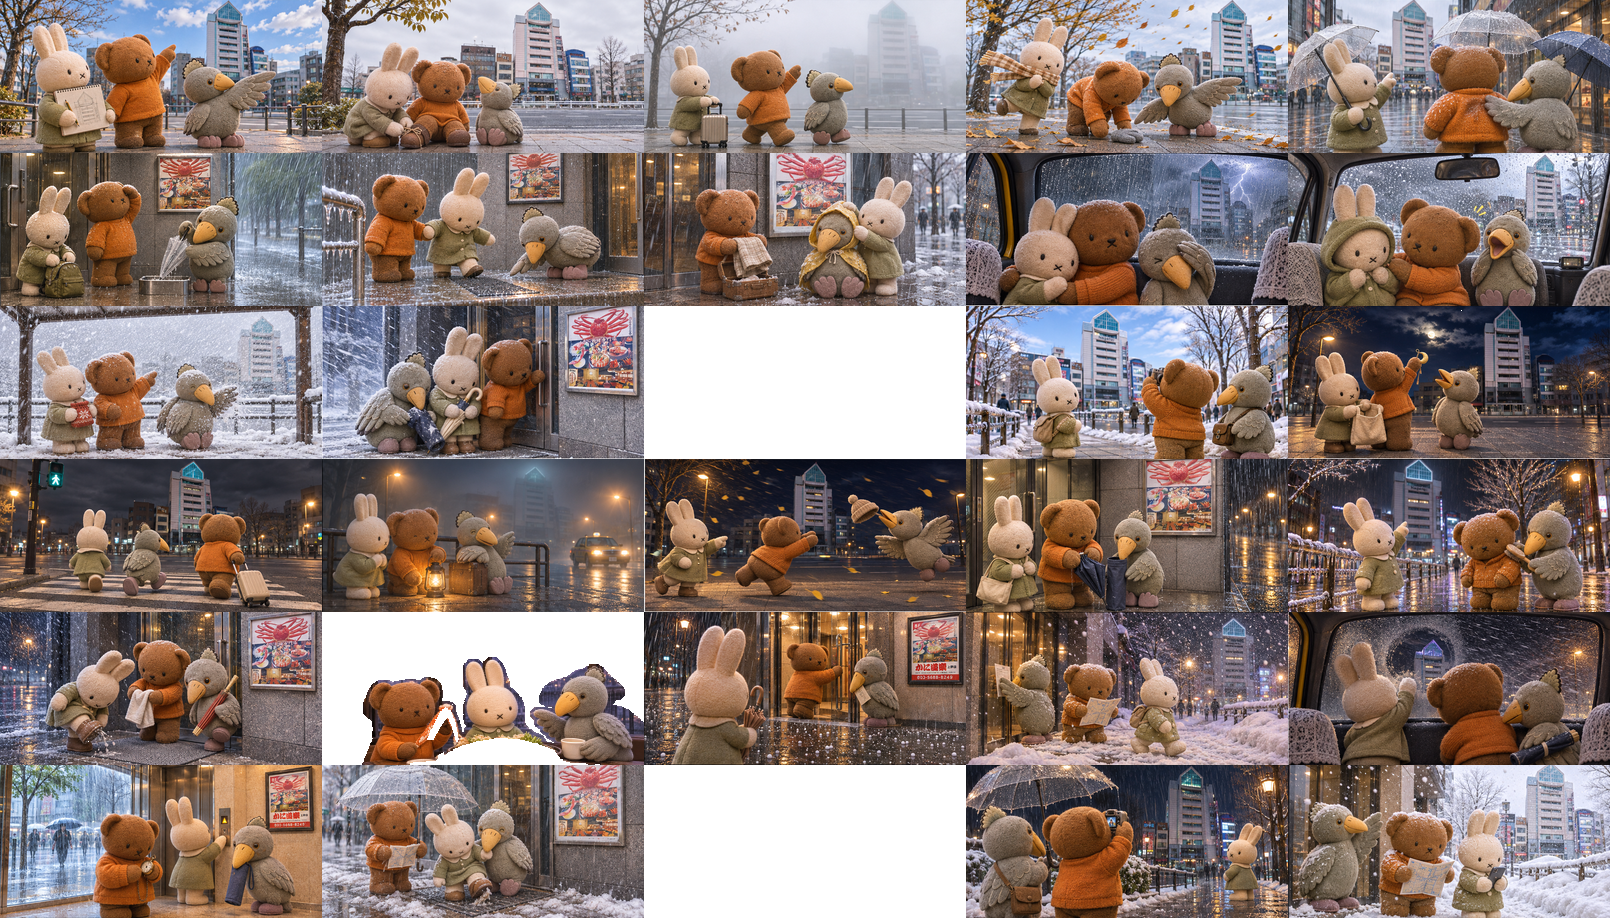
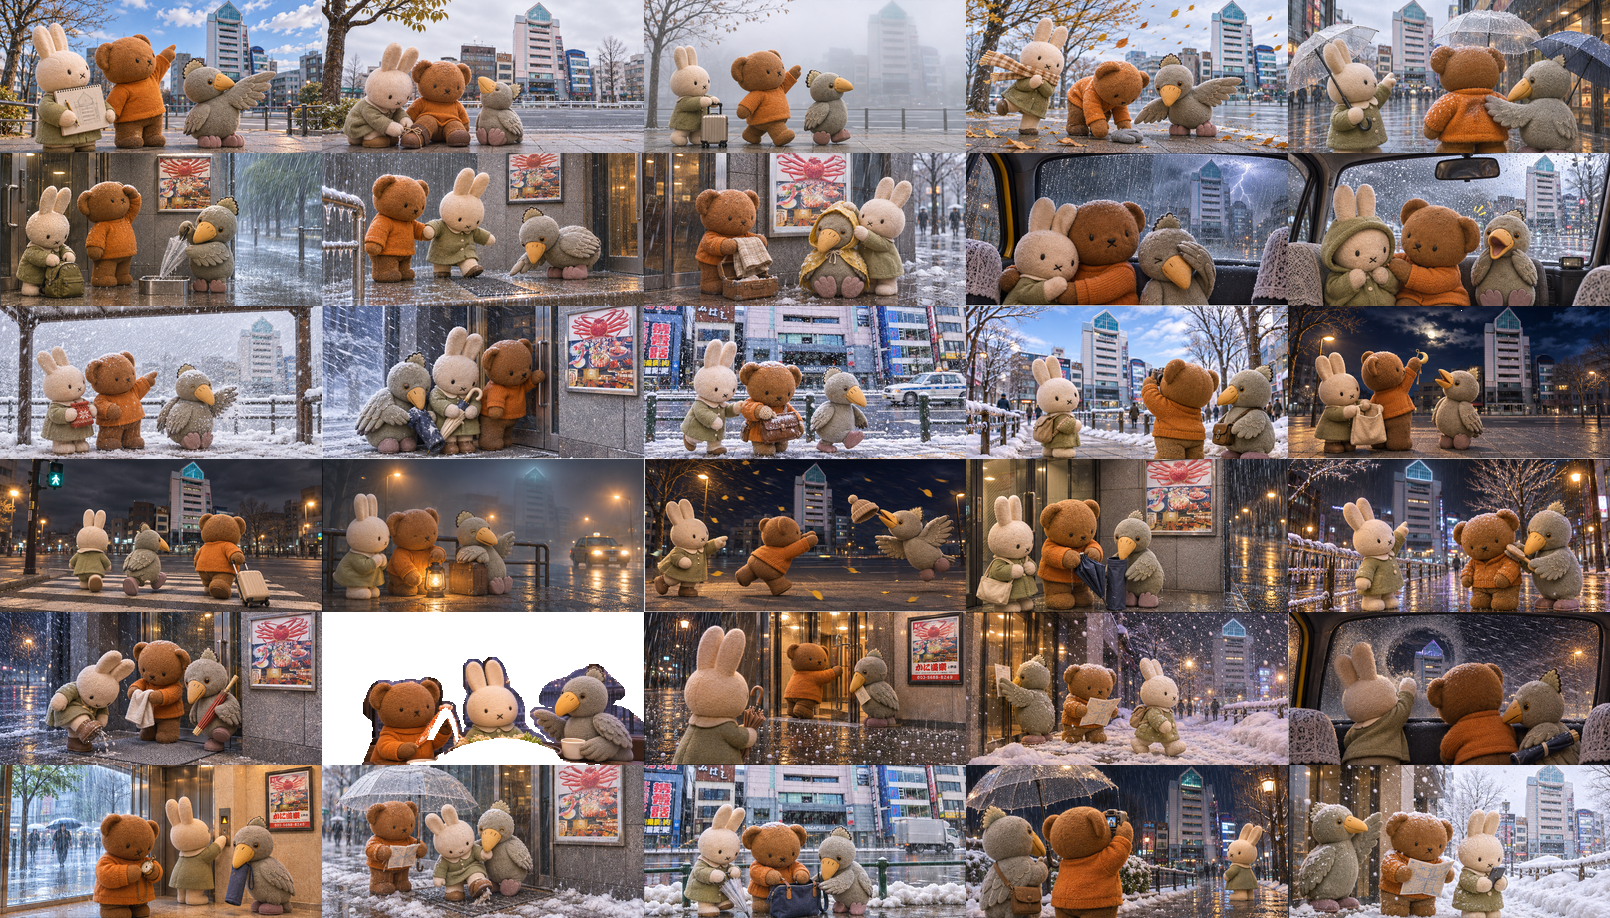
Publish 2693 verified travel weather illustrations

Changed region(s): [[0.3727, 0.8235, 0.6211, 1.0], [0.3727, 0.3355, 0.6211, 0.5185]]

diff --git a/trip-scenery.js b/trip-scenery.js
@@ -131,13 +131,13 @@ const TripScenery = (() => {
     "moere":{"rev":"a93c0904ed41","tiles":[1,4,7,14,17]},
     "moere-b":{"rev":"e53cc7e00f9a","tiles":[0,1,2,3,4,5,6,7,8,9,10,11,12,13,14,15,16,17,18,19,20,21,22,24,25,26,27,28]},
     "narita":{"rev":"8975a1809016","tiles":[11,12,15]},
-    "narita-b":{"rev":"d17bd1fce216","tiles":[0,2,3,4,5,6,7,8,9,10,12,18,20,23,24,25,26,27,28]},
+    "narita-b":{"rev":"c67e4441354a","tiles":[0,2,3,4,5,6,7,8,9,10,12,18,20,22,23,24,25,26,27,28]},
     "obihiro":{"rev":"1c28bd332a3d","tiles":[7,13,18]},
     "obihiro-b":{"rev":"3685c6c61876","tiles":[0,7,9,11,14,22,26,27,28]},
     "otaru":{"rev":"3791dd540955","tiles":[9]},
-    "otaru-b":{"rev":"e784c17349ad","tiles":[2,6]},
+    "otaru-b":{"rev":"62e29b33c83e","tiles":[2,6,8,9,12,14,15,18,20,21,28]},
     "roppongi":{"rev":"ee08e606e29f","tiles":[12]},
-    "roppongi-b":{"rev":"75a7100560a8","tiles":[3,6,7,8,10,11,12,13,14,15,20,21,22,23,26,29]},
+    "roppongi-b":{"rev":"4a636aeee583","tiles":[1,2,3,4,5,6,7,8,10,11,12,13,14,15,20,21,22,23,26,29]},
     "rusutsu":{"rev":"15835914c6d3","tiles":[7,11,13,16,18]},
     "rusutsu-b":{"rev":"90f44fbb19ad","tiles":[4,6,8,19,22,25,27]},
     "sapporo":{"rev":"e925743f436f","tiles":[9]},
@@ -158,7 +158,7 @@ const TripScenery = (() => {
     "spot-1d625ae4f":{"rev":"d953b4ddb572","tiles":[13]},
     "spot-1d625ae4f-b":{"rev":"3e4f23ac0943","tiles":[0,1,2,3,4,5,6,7,8,9,10,11,12,13,17,18,19,21,22,23,24,25,26,27,28,29]},
     "spot-1f13a90b8":{"rev":"7c6cfdd1cf96","tiles":[0,3,5,7,9,10,13,14,15,16,18,19]},
-    "spot-1f13a90b8-b":{"rev":"f4325c85f401","tiles":[0,1,2,3,4,5,6,7,8,9,10,11,12,13,14,15,16,17,18,20,21,22,23,24,25,26,27,28,29]},
+    "spot-1f13a90b8-b":{"rev":"7409b18fab2a","tiles":[0,1,2,3,4,5,6,7,8,9,10,11,12,13,14,15,16,17,18,20,21,22,23,24,25,26,27,28,29]},
     "spot-266ac0336":{"rev":"016e874e488a","tiles":[0,3,4,5,6,7,8,9,10,11,12,13,14,15,16,18,19]},
     "spot-266ac0336-b":{"rev":"8c9f89513548","tiles":[0,1,2,3,4,5,6,7,8,9,10,11,12,13,14,15,16,17,18,19,20,21,22,23,24,25,26,27,28,29]},
     "spot-269608d5a":{"rev":"fe0e7d68ff92","tiles":[2,14]},
@@ -183,15 +183,15 @@ const TripScenery = (() => {
     "spot-4238daf29":{"rev":"988d0f0b54b1","tiles":[0,2,4,5,6,7,8,9,10,11,12,13,14,15,17,18]},
     "spot-4238daf29-b":{"rev":"9ce5ea3f7159","tiles":[0,1,2,3,4,5,6,7,8,9,10,11,12,13,14,15,16,17,18,19,20,21,22,23,24,25,26,27,28,29]},
     "spot-4398c48a7":{"rev":"717ad5046dbd","tiles":[9,11,15]},
-    "spot-4398c48a7-b":{"rev":"7080e829c81f","tiles":[7,8,9,10,12,13,14,15,16,20,21,22,23,24,25,26,27,28,29]},
+    "spot-4398c48a7-b":{"rev":"616cebf99a7e","tiles":[0,1,3,4,5,6,7,8,9,10,12,13,14,15,16,20,21,22,23,24,25,26,27,28,29]},
     "spot-46fc6bef6":{"rev":"975e8b2c7046","tiles":[7]},
     "spot-46fc6bef6-b":{"rev":"4de673650249","tiles":[0,1,2,3,5,13,14,15,16,17,18,19,20,21,22,23,24,28]},
     "spot-4732296ba":{"rev":"17fc09d053e4","tiles":[12,13,14]},
     "spot-4732296ba-b":{"rev":"b16c604e6326","tiles":[27,29]},
     "spot-48ff7da1d":{"rev":"fad02c1f62e6","tiles":[4,5,8,12,16]},
-    "spot-48ff7da1d-b":{"rev":"a5721aed9906","tiles":[0,1,2,5,6,7,8,9,10,11,12,13,21,26,27,29]},
-    "spot-495afce62":{"rev":"6345f25067ce","tiles":[0,3,4,5,6,7,8,10,11,14,16,18,19]},
-    "spot-495afce62-b":{"rev":"57703479e5ae","tiles":[1,2,3,4,5,7,8,10,11,12,13,14,15,16,17,18,19,20,21,22,23,24,25,26,27,28,29]},
+    "spot-48ff7da1d-b":{"rev":"b4345ead59bb","tiles":[0,1,2,4,5,6,7,8,9,10,11,12,13,21,26,27,29]},
+    "spot-495afce62":{"rev":"0f11bee40ad2","tiles":[0,3,4,5,6,7,8,10,11,12,14,16,18,19]},
+    "spot-495afce62-b":{"rev":"2c7b087412cb","tiles":[0,1,2,3,4,5,7,8,9,10,11,12,13,14,15,16,17,18,19,20,21,22,23,24,25,26,27,28,29]},
     "spot-49779f027":{"rev":"5e265107b247","tiles":[7,12,14]},
     "spot-49779f027-b":{"rev":"c3ff9420ab2c","tiles":[0,3,12,14,15,17,21,22,23,25,27,28]},
     "spot-51652ebdc":{"rev":"adf2df6853ff","tiles":[9,13]},
@@ -200,6 +200,7 @@ const TripScenery = (() => {
     "spot-54f5ce43e-b":{"rev":"d91a96483961","tiles":[1,2,4,5,6,7,8,9,12,14,16,18,20,23,25,26,27,28]},
     "spot-569b08bba":{"rev":"081b3124469c","tiles":[4,5,7,8,10,12,14]},
     "spot-569b08bba-b":{"rev":"190b189d2cb7","tiles":[0,1,2,3,4,5,6,8,9,10,13,14,15,16,17,18,19,20,21,22,23,24,25,26,27,28,29]},
+    "spot-5724c004b-b":{"rev":"fb0f112fc69f","tiles":[1,4,5,6,9,10]},
     "spot-59c3d0ebd":{"rev":"7f8a63b309a1","tiles":[2,9,11,13,17]},
     "spot-5df3b4a31":{"rev":"99a3dba5bf36","tiles":[4]},
     "spot-627afeabe":{"rev":"852212a79865","tiles":[0,3,4,6,7,8,10,11,12,13,14,16,19]},
@@ -213,7 +214,7 @@ const TripScenery = (() => {
     "spot-78367cc4f":{"rev":"338311576cd1","tiles":[13,15]},
     "spot-78367cc4f-b":{"rev":"0caceddfac3c","tiles":[0,1,2,3,4,5,6,7,8,9,10,11,12,13,14,15,16,17,18,19,20,21,22,23,24,25,26,27,28,29]},
     "spot-7955326ed":{"rev":"ac97bb5fb9e6","tiles":[0,2,3,4,5,6,7,8,10,12,14,15,16,17]},
-    "spot-7955326ed-b":{"rev":"e4c4943b54c5","tiles":[0,1,2,3,4,5,6,7,8,9,10,11,13,14,15,16,17,18,19,20,21,22,23,24,25,26,28,29]},
+    "spot-7955326ed-b":{"rev":"15b155517037","tiles":[0,1,2,3,4,5,6,7,8,9,10,11,12,13,14,15,16,17,18,19,20,21,22,23,24,25,26,27,28,29]},
     "spot-79865f593":{"rev":"68a20e51f5c4","tiles":[0,8,9,12,13,16]},
     "spot-79865f593-b":{"rev":"8522d3815c0f","tiles":[0,1,2,3,4,5,6,7,8,9,10,12,13,14,15,16,17,18,19,20,21,22,23,25,26,27,28,29]},
     "spot-7c1b27ec2":{"rev":"a793d4916773","tiles":[4,7]},
@@ -235,18 +236,19 @@ const TripScenery = (() => {
     "spot-8f335641b":{"rev":"922d7a63f424","tiles":[7,10,13]},
     "spot-8f335641b-b":{"rev":"e24e978e3e3c","tiles":[0,2,3,4,5,6,7,8,9,10,12,13,14,18,21,22,23,24,25,26,27,28,29]},
     "spot-90e680279":{"rev":"89c19726ad4c","tiles":[4,6,9,10,11,14,19]},
-    "spot-90e680279-b":{"rev":"4225c2784ad6","tiles":[1,2,4,6,7,8,9,12,13,14,15,16,17,18,20,21,22,23,25,26,27,28,29]},
+    "spot-90e680279-b":{"rev":"ba0f928fc66c","tiles":[1,2,4,6,7,8,9,12,13,14,15,16,17,18,19,20,21,22,23,25,26,27,28,29]},
     "spot-986c13ff5":{"rev":"ce3ac4cbcc9f","tiles":[0,3,7,9,13,16]},
     "spot-986c13ff5-b":{"rev":"0817c94bd73c","tiles":[0,1,3,4,5,6,7,9,10,11,12,13,14,15,16,17,18,19,22,25,27,29]},
     "spot-9f53c40a2-b":{"rev":"330a557a80c6","tiles":[0,1,2,3,4,5,6,7,8,9,10,11,12,13,14,15,16,17,18,19,21,23,25,26,27,28,29]},
     "spot-a52910691":{"rev":"9fc6c3b9342b","tiles":[0,3,4,6,7,10,13,14,16,19]},
     "spot-a52910691-b":{"rev":"3ac24ee02818","tiles":[0,1,2,3,4,5,6,7,8,9,10,11,12,13,14,15,16,18,19,20,21,22,23,24,25,26,27,28]},
     "spot-a7566ef75":{"rev":"fc4e8d80482b","tiles":[0,3,4,7,8,11,12,13,14,15,16,18,19]},
-    "spot-a7566ef75-b":{"rev":"4814925781ea","tiles":[0,1,3,4,5,6,7,8,9,10,12,13,14,17,19,21,23,25,26,27,28,29]},
+    "spot-a7566ef75-b":{"rev":"180845dfba52","tiles":[0,1,3,4,5,6,7,8,9,10,12,13,14,15,16,17,18,19,20,21,23,24,25,26,27,28,29]},
     "spot-ac4485fba":{"rev":"20045b428de9","tiles":[7,13]},
-    "spot-ac4485fba-b":{"rev":"10ee31d4efad","tiles":[0,1,2,4,5,7,8,12,14,16,19,20,21,24,25]},
-    "spot-acfec276c-b":{"rev":"f61bf2348797","tiles":[1,2,3,4,5,6,8,9,12,16,18,22,23,24,29]},
+    "spot-ac4485fba-b":{"rev":"3dcd058fb25c","tiles":[0,1,2,4,5,6,7,8,9,10,12,13,14,15,16,18,19,20,21,22,23,24,25,28,29]},
+    "spot-acfec276c-b":{"rev":"ae152dc03945","tiles":[1,2,3,4,5,6,7,8,9,11,12,14,16,18,19,20,22,23,24,25,26,27,28,29]},
     "spot-b238fe7ba":{"rev":"34e2069181cf","tiles":[5]},
+    "spot-b238fe7ba-b":{"rev":"9209fb0a8e75","tiles":[2,3,4,5,6,8,9,10,12,14,15,16]},
     "spot-b531cf1e9":{"rev":"89fd0a7e4191","tiles":[4,7,9,11,14]},
     "spot-b531cf1e9-b":{"rev":"5dd885f0d6ca","tiles":[24]},
     "spot-bbf221799":{"rev":"d18150d38f81","tiles":[13]},
@@ -264,40 +266,40 @@ const TripScenery = (() => {
     "spot-ceed47a35-b":{"rev":"19c65ea938ca","tiles":[0,1,2,3,4,5,6,7,8,9,10,11,12,13,14,15,16,17,19,21,25,27,28,29]},
     "spot-d1c54f9ac":{"rev":"253961aa68bc","tiles":[4,7,9]},
     "spot-d1c54f9ac-b":{"rev":"9def6124abd6","tiles":[0,1,2,7,8,10,12,13,14,15,16,18,19,20,21,23,26,27,28,29]},
-    "spot-da027a45c":{"rev":"f9dbeec826e2","tiles":[0,4,5,7,8,11,12,14,15]},
-    "spot-da027a45c-b":{"rev":"aa14adcbefc2","tiles":[25,28]},
+    "spot-da027a45c":{"rev":"72c233c72d5c","tiles":[0,3,4,5,6,7,8,10,11,12,13,14,15,16]},
+    "spot-da027a45c-b":{"rev":"e7a5e842165c","tiles":[0,1,2,3,4,5,6,7,8,9,10,11,12,13,14,16,17,19,22,24,25,26,27,28,29]},
     "spot-df94bb662":{"rev":"11f36ffa0d5c","tiles":[6]},
-    "spot-df94bb662-b":{"rev":"7ddf8be8a813","tiles":[3,5,6,8,12,13,22,27]},
+    "spot-df94bb662-b":{"rev":"01ebfcae7462","tiles":[3,5,6,8,12,13,18,22,27]},
     "spot-e2a5a2ae7":{"rev":"1a46dbc7af78","tiles":[11]},
-    "spot-e2a5a2ae7-b":{"rev":"50986591cf8b","tiles":[0,1,3,4,5,9,10,12,13,14,16,21,22]},
+    "spot-e2a5a2ae7-b":{"rev":"738d6a3ef5f0","tiles":[0,1,3,4,5,9,10,12,13,14,16,18,21,22]},
     "spot-e2b4a3c27":{"rev":"32222fb0d2bc","tiles":[0,3,5,7,9,10,12,13,15,16,18]},
     "spot-e2b4a3c27-b":{"rev":"26a762bbf1ac","tiles":[0,1,2,3,4,5,6,7,8,9,10,12,13,14,15,16,18,19,20,21,22,25,26,27,28,29]},
     "spot-e3447714a":{"rev":"efe1e24c9597","tiles":[8,11,13]},
-    "spot-e3447714a-b":{"rev":"bd96c67c94e7","tiles":[2,6,8,9,10,19,20,23,24,26,28,29]},
+    "spot-e3447714a-b":{"rev":"273fcefe4a4b","tiles":[2,5,6,8,9,10,19,20,23,24,26,28,29]},
     "spot-e4f890e25":{"rev":"02de6256fdd0","tiles":[0,2,3,4,5,6,7,8,9,10,11,12,13,14,16,18,19]},
     "spot-e4f890e25-b":{"rev":"2380bfea87f6","tiles":[0,1,2,3,4,5,6,7,8,9,10,11,12,13,14,15,16,17,18,19,20,21,22,23,24,25,26,27,28,29]},
     "spot-e5fd09f2f-b":{"rev":"a7c51d1319f8","tiles":[0,1,2,3,4,5,6,7,9,10,12,13,14,15,16,17,19,20,21,22,23,24,25,26,27,28,29]},
     "spot-e67324d3f":{"rev":"26c45c1deca1","tiles":[0,7,12,18,19]},
     "spot-e67324d3f-b":{"rev":"dd9940ea87f8","tiles":[0,1,2,3,4,6,7,8,9,10,12,13,14,15,16,17,18,19,20,21,22,24,25,26,27,28,29]},
     "spot-e72214aac":{"rev":"a29c666aca8b","tiles":[2,3]},
-    "spot-e72214aac-b":{"rev":"b687271bc631","tiles":[2,8,13,20,21,25,29]},
+    "spot-e72214aac-b":{"rev":"087d2b6ab075","tiles":[2,3,8,13,20,21,25,29]},
     "spot-edb6dfccc":{"rev":"ab5811cddd5c","tiles":[14]},
-    "spot-edb6dfccc-b":{"rev":"16b1a4bcf22a","tiles":[1,4,6,7,9,10,13,15,16,25,26,28]},
+    "spot-edb6dfccc-b":{"rev":"c687e90006dd","tiles":[1,4,6,7,9,10,13,15,16,25,26,27,28]},
     "spot-eefebbe06":{"rev":"ad9b5aa6f120","tiles":[18]},
     "spot-eefebbe06-b":{"rev":"17f13b9da6ff","tiles":[6,7,8,9,10,16,20,21,24,27,28]},
     "spot-efe273a59":{"rev":"474752faafa8","tiles":[9,11,12,13]},
-    "spot-efe273a59-b":{"rev":"592c28844269","tiles":[0,2,3,4,6,8,11,12,14,15,18,19,20,21,22,23,25,26,27,28,29]},
-    "spot-f029df4f6":{"rev":"ee067dfb9b57","tiles":[4,5,6,8,9,11,12,14,19]},
+    "spot-efe273a59-b":{"rev":"9a038491e8bb","tiles":[0,2,3,4,6,8,11,12,13,14,15,17,18,19,20,21,22,23,25,26,27,28,29]},
+    "spot-f029df4f6":{"rev":"cc1601e08408","tiles":[4,5,6,7,8,9,11,12,14,19]},
     "spot-f029df4f6-b":{"rev":"6b8893e6f790","tiles":[0,1,2,3,4,5,6,7,8,9,10,12,13,14,15,16,17,18,19,20,22,23,24,25,26,27,28,29]},
     "spot-f3cd60482":{"rev":"bdc2aee579fc","tiles":[7,8]},
-    "spot-f3cd60482-b":{"rev":"8ad4a06b1717","tiles":[0,1,4,5,6,7,8,9,10,11,12,13,14,16,17,19,20,21,24,26,27,28]},
+    "spot-f3cd60482-b":{"rev":"8e78c432f5f1","tiles":[0,1,4,5,6,7,8,9,10,11,12,13,14,16,17,18,19,20,21,22,23,24,26,27,28]},
     "spot-f3d63d0ed":{"rev":"12979a811e88","tiles":[13,17,18]},
-    "spot-f3d63d0ed-b":{"rev":"e4e7ce5e75f4","tiles":[0,1,2,3,4,5,6,9,10,12,13,14,17,18,19,21,22,23,24,26,27,28,29]},
+    "spot-f3d63d0ed-b":{"rev":"8d2a23d9b591","tiles":[0,1,2,3,4,5,6,8,9,10,12,13,14,15,17,18,19,21,22,23,24,26,27,28,29]},
     "spot-f7cce1fae":{"rev":"e0842d997b0f","tiles":[4,7,13]},
-    "spot-f7cce1fae-b":{"rev":"3d2d21a5bf5c","tiles":[10,11,17,24,25,29]},
+    "spot-f7cce1fae-b":{"rev":"43cbba567656","tiles":[3,10,11,17,24,25,29]},
     "spot-fb71239cf":{"rev":"7a71719715e9","tiles":[7,8,13]},
     "spot-fb71239cf-b":{"rev":"5b4af8ca480c","tiles":[0,1,5,6,8,9,10,14,15,16,17,18,19,20,21,23,24,25,26]},
-    "tokachi":{"rev":"a67b0eb3a3ca","tiles":[1,2,7]},
+    "tokachi":{"rev":"157a9d7fb85c","tiles":[1,2,7]},
     "tokachi-b":{"rev":"571d05f510e3","tiles":[0,1,2,3,4,5,6,7,8,9,10,11,12,13,14,15,16,17,18,19,20,21,22,23,24,25,26,27,28]},
     "tokyo":{"rev":"6da641a43c64","tiles":[7,11]},
     "tokyo-b":{"rev":"3caf0676c333","tiles":[5]},
@@ -305,7 +307,7 @@ const TripScenery = (() => {
     "tomamu-b":{"rev":"2539d1676300","tiles":[5,20,21]},
     "toya":{"rev":"28205ef6262d","tiles":[7]},
     "toya-b":{"rev":"a6967bcfb3b4","tiles":[0,1,2,3,4,6,9]},
-    "ueno-b":{"rev":"864f92cb9c1d","tiles":[2,3,12,20]}
+    "ueno-b":{"rev":"9ce01ba1f1ed","tiles":[2,3,4,12,20]}
   };
   function atlasPath(stem){
     const rev=atlasRevisions[stem];

diff --git a/index.html b/index.html
@@ -1,5 +1,5 @@
 <!doctype html>
-<html lang="zh-HK" data-build="20261124-v75">
+<html lang="zh-HK" data-build="20261124-v76">
 <head>
 <meta charset="utf-8">
 <meta name="viewport" content="width=device-width, initial-scale=1, viewport-fit=cover">
@@ -1116,7 +1116,7 @@
       <button data-act="trips">切換旅程</button>
       <button data-act="settings">設定</button>
       <div class="verrow">
-        <div id="ver" data-build="20261124-v75" style="padding-top:0">v75</div>
+        <div id="ver" data-build="20261124-v76" style="padding-top:0">v76</div>
         <button class="forceup" data-act="forceup" type="button">強制更新</button>
       </div>
     </div>
@@ -1182,7 +1182,7 @@
   var SBK = 'sb_publishable_YROUDaSxinrbHH4g7q8gmQ_4za7Ohfj';
   var TABLE='trip_log', AI_URL=SB+'/functions/v1/trip-ai';
   var APP='trip', SESS_KEY='appSession.trip', AUTH=SB+'/functions/v1/app-auth';
-  var APP_VER='20261124-v75';
+  var APP_VER='20261124-v76';
 
   // kind：類型定義（icon、名、有冇座標、預設時間 label）
   var KINDS={
